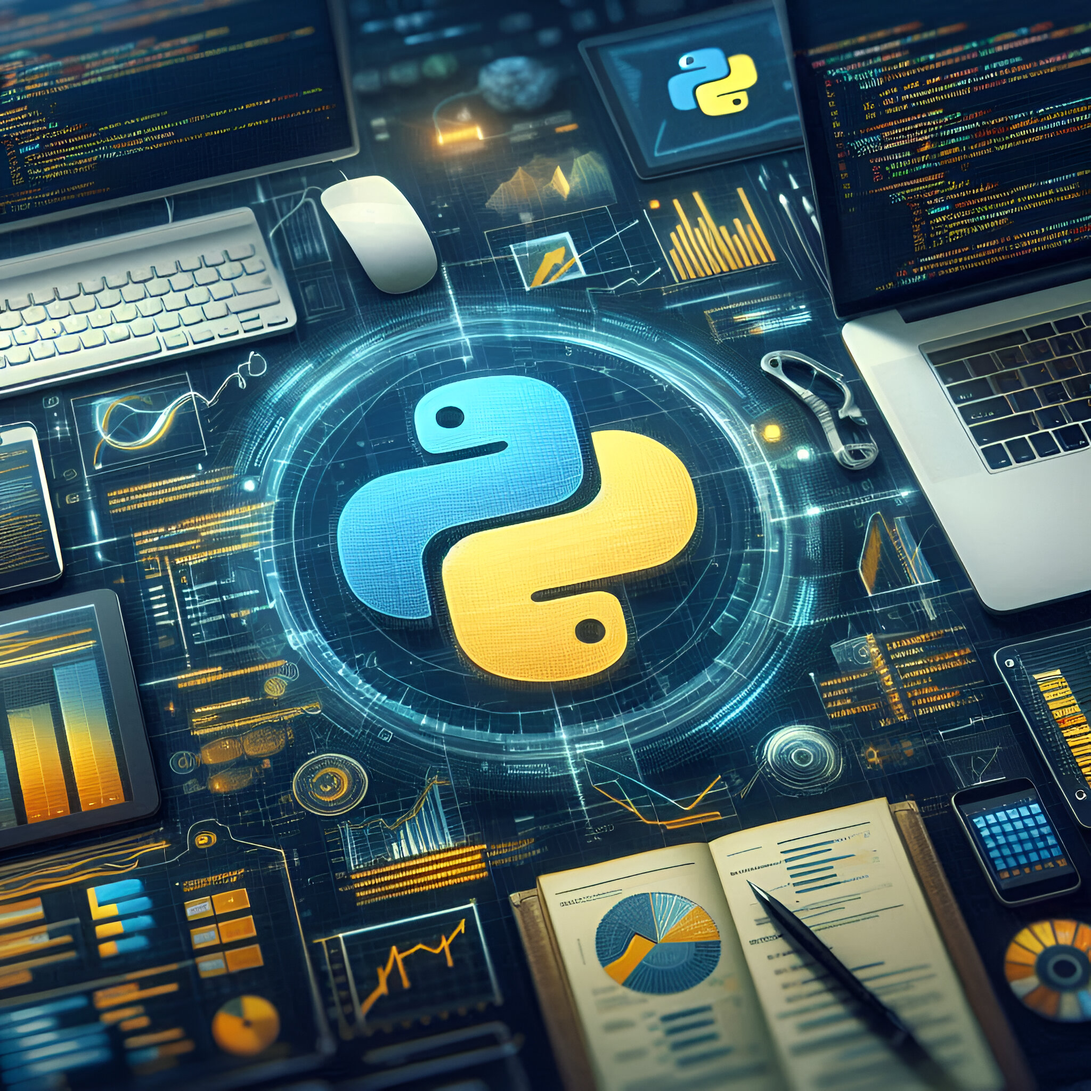
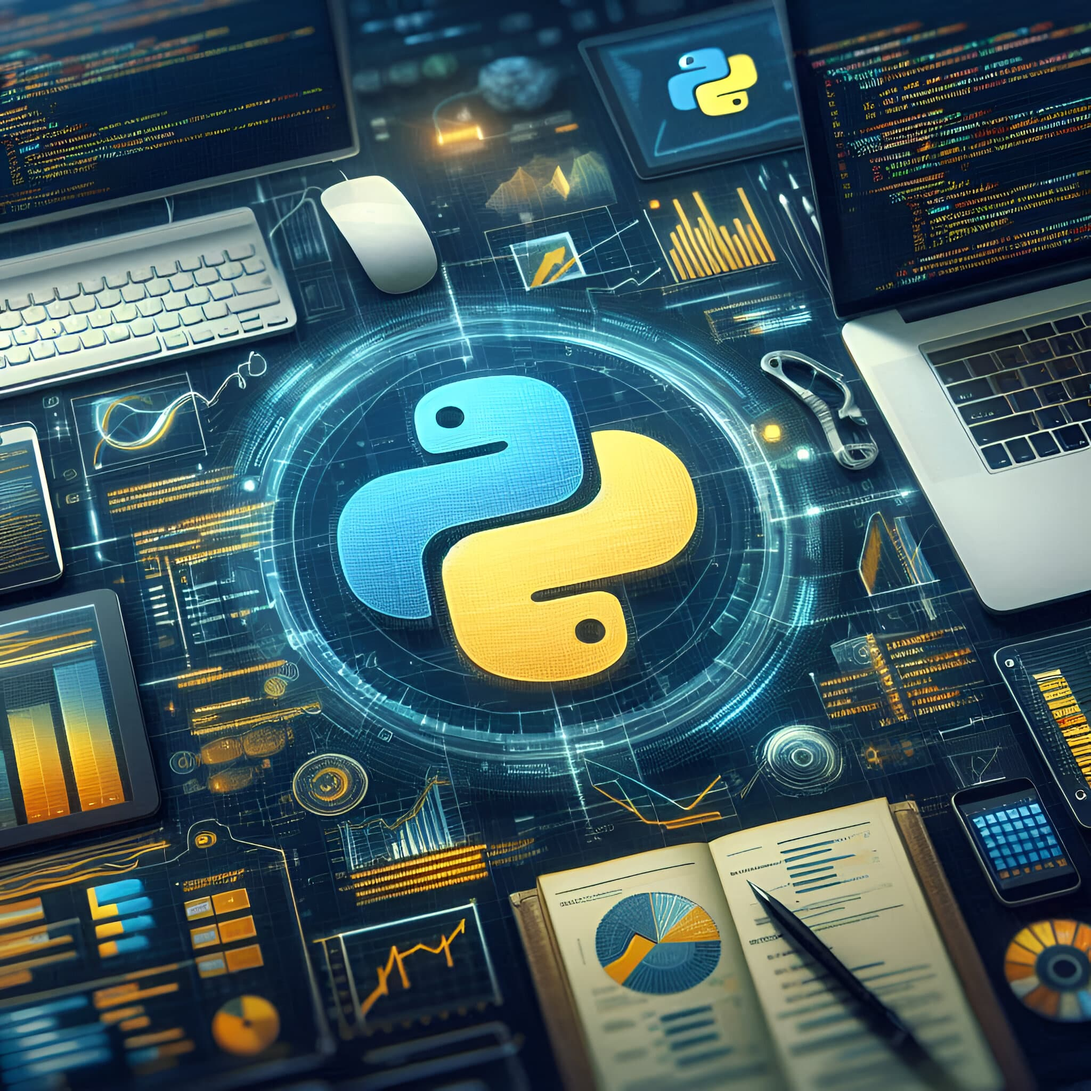
home page courses image optimized

diff --git a/src/components/HomePage/TrainingCourses.jsx b/src/components/HomePage/TrainingCourses.jsx
@@ -1,41 +1,100 @@
 import { motion } from 'framer-motion';
 import { FiArrowRight } from 'react-icons/fi';
-import { useEffect, useRef, useState } from 'react';
+import { useState, useMemo, useCallback } from 'react';
 import {
     Card,
     CardHeader,
     CardBody,
     CardFooter,
     Typography,
-    Button,
 } from "@material-tailwind/react";
 import { Link } from 'react-router-dom';
 import FreeDemoForm from '../ContactUs/FreeDemoForm';
 import { useSelector } from 'react-redux';
 import TrainingCoursesSkeleton from '../ui/SkeletonEffects/TrainingCoursesSkeleton';
 
+// Enhanced LazyImage component with smooth transitions
+const LazyImage = ({ src, alt }) => {
+    const [isLoaded, setIsLoaded] = useState(false);
+    const [isError, setIsError] = useState(false);
+
+    const handleLoad = useCallback(() => {
+        setIsLoaded(true);
+    }, []);
+
+    const handleError = useCallback(() => {
+        setIsError(true);
+    }, []);
+
+    return (
+        <div className="relative h-full w-full overflow-hidden">
+            {/* Skeleton placeholder */}
+            {!isLoaded && !isError && (
+                <motion.div
+                    initial={{ opacity: 1 }}
+                    exit={{ opacity: 0 }}
+                    transition={{ duration: 0.3 }}
+                    className="absolute inset-0 bg-gradient-to-br from-gray-200 to-gray-300 dark:from-gray-700 dark:to-gray-800"
+                />
+            )}
+
+            {/* Error state */}
+            {isError && (
+                <div className="absolute inset-0 flex items-center justify-center bg-gray-100 dark:bg-gray-800">
+                    <div className="text-gray-400 text-sm">Image unavailable</div>
+                </div>
+            )}
+
+            {/* Actual image with smooth transition */}
+            <motion.img
+                src={src}
+                alt={alt}
+                loading="lazy"
+                decoding="async"
+                onLoad={handleLoad}
+                onError={handleError}
+                initial={{ opacity: 0 }}
+                animate={{ 
+                    opacity: isLoaded ? 1 : 0,
+                    scale: isLoaded ? 1 : 0.98
+                }}
+                transition={{ 
+                    opacity: { duration: 0.5, ease: "easeOut" },
+                    scale: { duration: 0.5, ease: "backOut" }
+                }}
+                className="absolute inset-0 w-full h-full object-cover"
+                style={{
+                    willChange: 'transform, opacity', // Hint for browser optimization
+                }}
+            />
+        </div>
+    );
+};
+
+// Main component
 const TrainingCourses = () => {
     const [showForm, setShowForm] = useState(false);
     const courses = useSelector((state) => state.courses.courseData);
     const loading = useSelector((state) => state.courses.status);
     const error = useSelector((state) => state.courses.error);
 
+    const memoizedCourses = useMemo(() => courses, [courses]);
+
     if (loading === 'loading') {
-        return <TrainingCoursesSkeleton />
+        return <TrainingCoursesSkeleton />;
     }
 
     if (error) {
-        return <div className="text-center text-red-500">Error: {error}</div>;
+        return <div className="text-center text-red-500 py-16">Error: {error}</div>;
     }
 
     return (
-
-        <section id='training-courses' className="py-7 md:py-16 dark:bg-gray-900 bg-white ">
+        <section id='training-courses' className="py-7 md:py-16 dark:bg-gray-900 bg-white">
             <div className="container mx-auto px-4 sm:px-6 lg:px-8">
                 <motion.div
                     initial={{ opacity: 0, y: 20 }}
                     whileInView={{ opacity: 1, y: 0 }}
-                    viewport={{ once: true }}
+                    viewport={{ once: true, margin: '-100px' }}
                     transition={{ duration: 0.5 }}
                     className="text-center mb-12"
                 >
@@ -47,48 +106,44 @@ const TrainingCourses = () => {
                     </h3>
                 </motion.div>
 
-                {/* for opening modal() when clicked on */}
-                {showForm && (
-                    <FreeDemoForm onClose={() => setShowForm(false)} />
-                )}
+                {showForm && <FreeDemoForm onClose={() => setShowForm(false)} />}
+                
                 <div className="grid grid-cols-1 sm:grid-cols-2 lg:grid-cols-3 xl:grid-cols-4 gap-6">
-                    {courses.map((course, index) => (
+                    {memoizedCourses.map((course, index) => (
                         <motion.div
-                            key={`${course.title}-${index}`}
+                            key={`${course.id}-${index}`}
                             initial={{ opacity: 0, y: 20 }}
                             whileInView={{ opacity: 1, y: 0 }}
-                            viewport={{ once: true }}
-                            transition={{ duration: 0.5, delay: index * 0.1 }}
+                            viewport={{ once: true, margin: '-50px' }}
+                            transition={{ 
+                                duration: 0.5, 
+                                delay: index * 0.1,
+                                type: "spring",
+                                stiffness: 100,
+                                damping: 10
+                            }}
                             whileHover={{
-                                y: -10,
-                                rotateX: 5,
-                                rotateY: 5,
-                                transition: {
-                                    type: "spring",
-                                    stiffness: 300,
-                                    damping: 10,
-                                },
+                                y: -8,
+                                transition: { 
+                                    type: "spring", 
+                                    stiffness: 200,
+                                    damping: 10
+                                }
                             }}
                             className="w-full max-w-sm mx-auto"
                         >
                             <Card className="relative bg-white dark:bg-gray-900 shadow-lg dark:shadow-gray-800 hover:shadow-xl transition-shadow duration-300 rounded-xl overflow-hidden">
-
-                                {/* Optional gradient glow effect */}
-                                <div
-                                    className={`absolute inset-0 bg-gradient-to-r ${course.color} p-0.5 rounded-xl opacity-15 pointer-events-none`}
-                                ></div>
+                                <div className={`absolute inset-0 bg-gradient-to-r ${course.color} p-0.5 rounded-xl opacity-15 pointer-events-none`}></div>
 
                                 <CardHeader
                                     color="blue-gray"
                                     className="relative h-56 w-full p-0 m-0 bg-gray-100 dark:bg-gray-800 overflow-hidden"
                                 >
-                                    <img
-                                        src={course.bgImage}
-                                        alt={course.title}
-                                        className="w-full h-full object-cover"
+                                    <LazyImage 
+                                        src={course.bgImage} 
+                                        alt={course.title} 
                                     />
                                 </CardHeader>
-
 
                                 <CardBody className="bg-white dark:bg-gray-900">
                                     <Typography
@@ -110,17 +165,17 @@ const TrainingCourses = () => {
                                         onClick={() => setShowForm(true)}
                                     >
                                         {course.cta}
-                                        <FiArrowRight className="ml-2 transition-transform group-hover:translate-x-1" />
+                                        <FiArrowRight className="ml-2" />
                                     </motion.button>
 
-                                    <Link to={course.link}>
-                                        <motion.button
+                                    <Link to={course.link} className="pb-3">
+                                        <motion.span
                                             whileHover={{ x: 5 }}
                                             whileTap={{ scale: 0.95 }}
-                                            className="flex text-sm pb-3 text-blue-600 dark:text-blue-400 font-semibold hover:text-blue-700 dark:hover:text-blue-300 transition-colors"
+                                            className="flex text-sm text-blue-600 dark:text-blue-400 font-semibold hover:text-blue-700 dark:hover:text-blue-300 transition-colors"
                                         >
                                             Know More →
-                                        </motion.button>
+                                        </motion.span>
                                     </Link>
                                 </CardFooter>
                             </Card>

diff --git a/src/components/HomePage/Footer.jsx b/src/components/HomePage/Footer.jsx
@@ -322,7 +322,7 @@ const handleLocationClick = (e, location) => {
       <div className="w-full lg:ml-16 px-4 sm:px-6 lg:px-8 3xl:px-20 4xl:px-32 5xl:px-52 transition-all duration-300">
         {/* Constrain content up to 5xl */}
         <div className="max-w-screen-5xl mx-auto">
-          {/* Mobile Accordion */}
+          {/* Mobile Layout */}
           <div className="lg:hidden space-y-6">
             {/* Logo */}
             <div className="flex justify-center">
